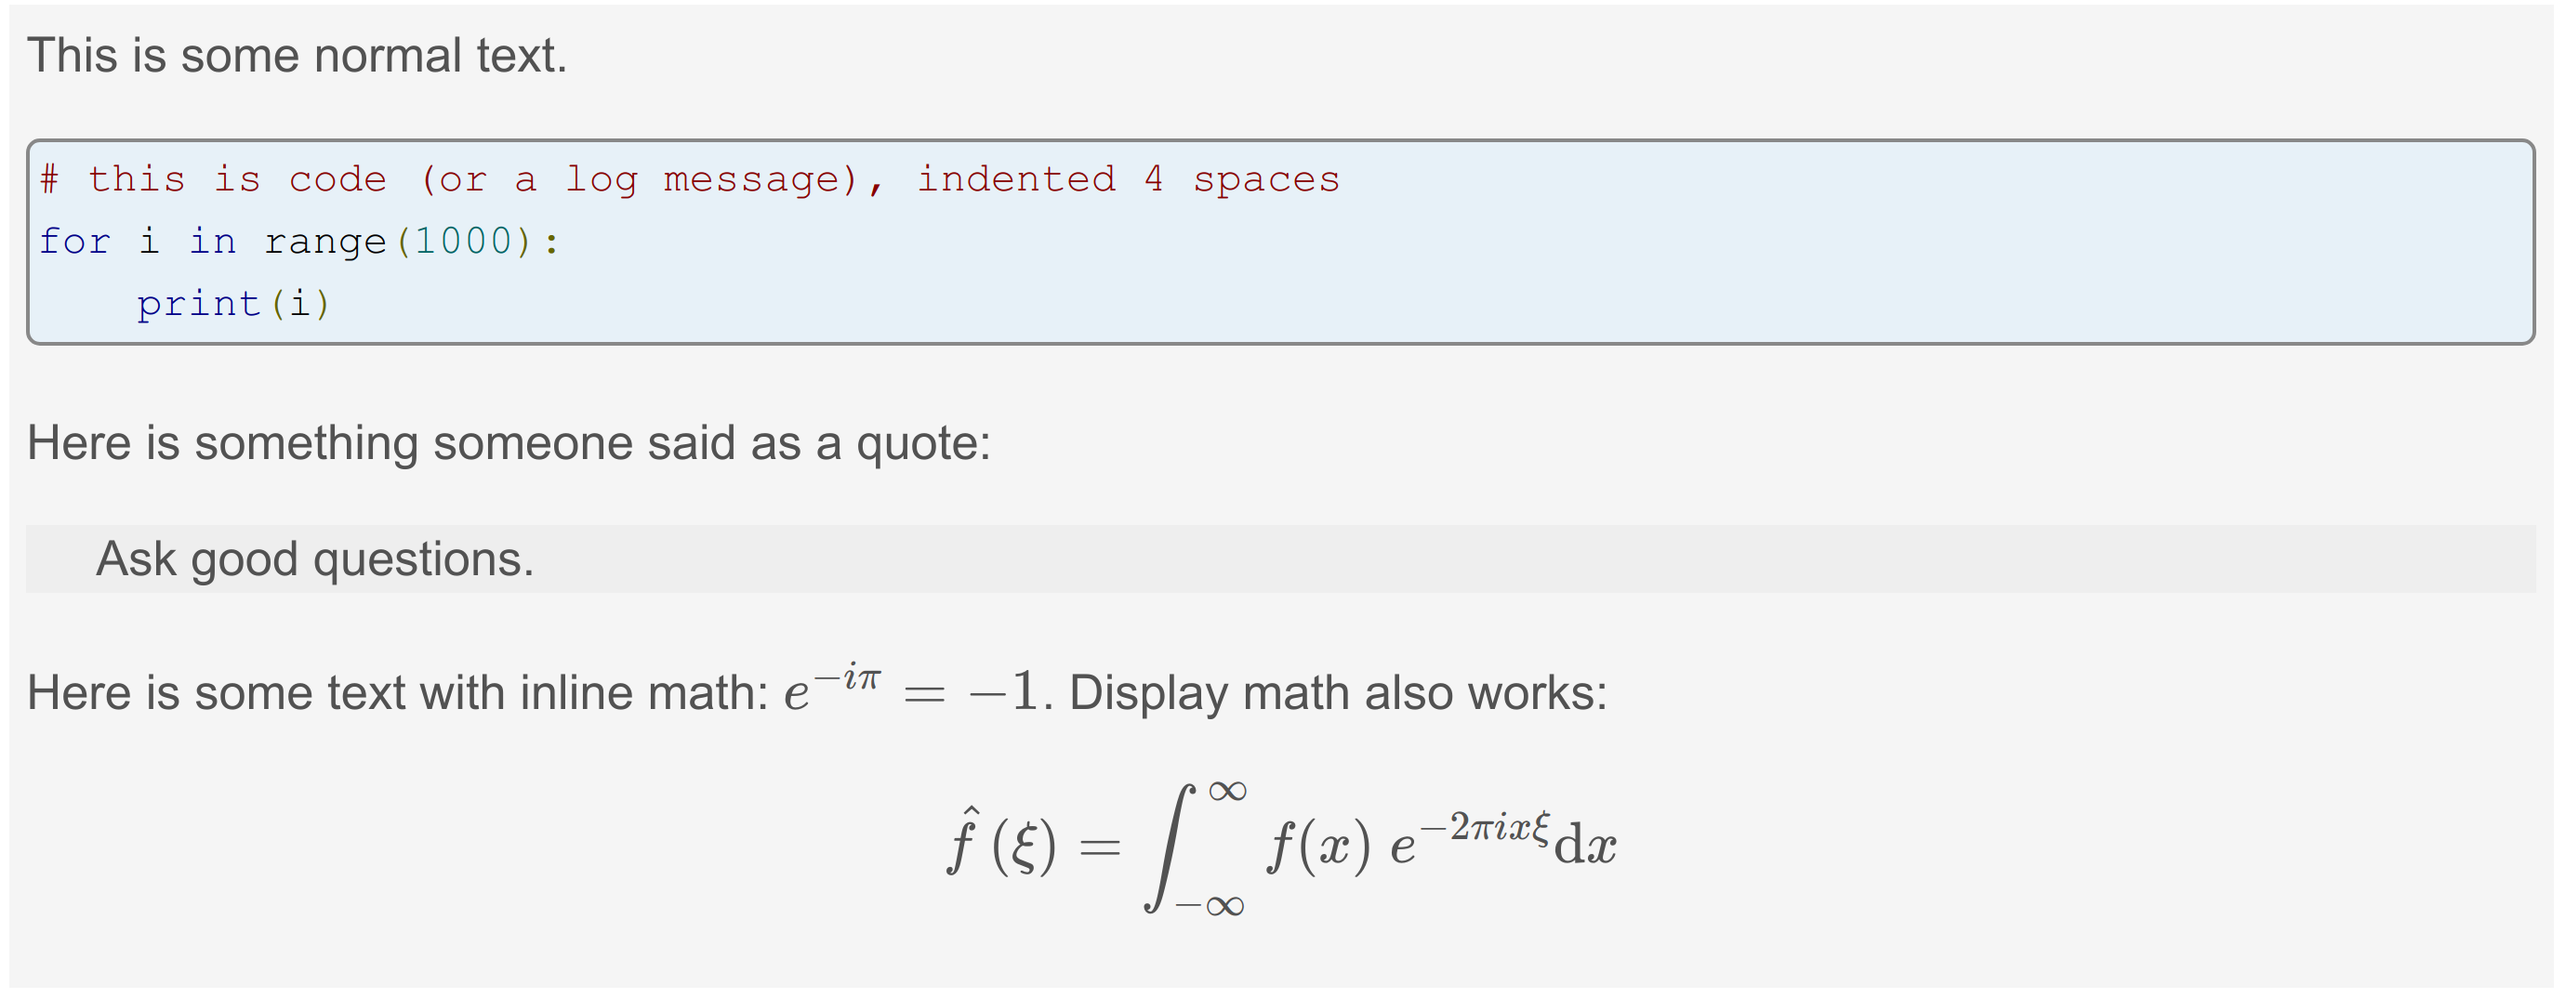
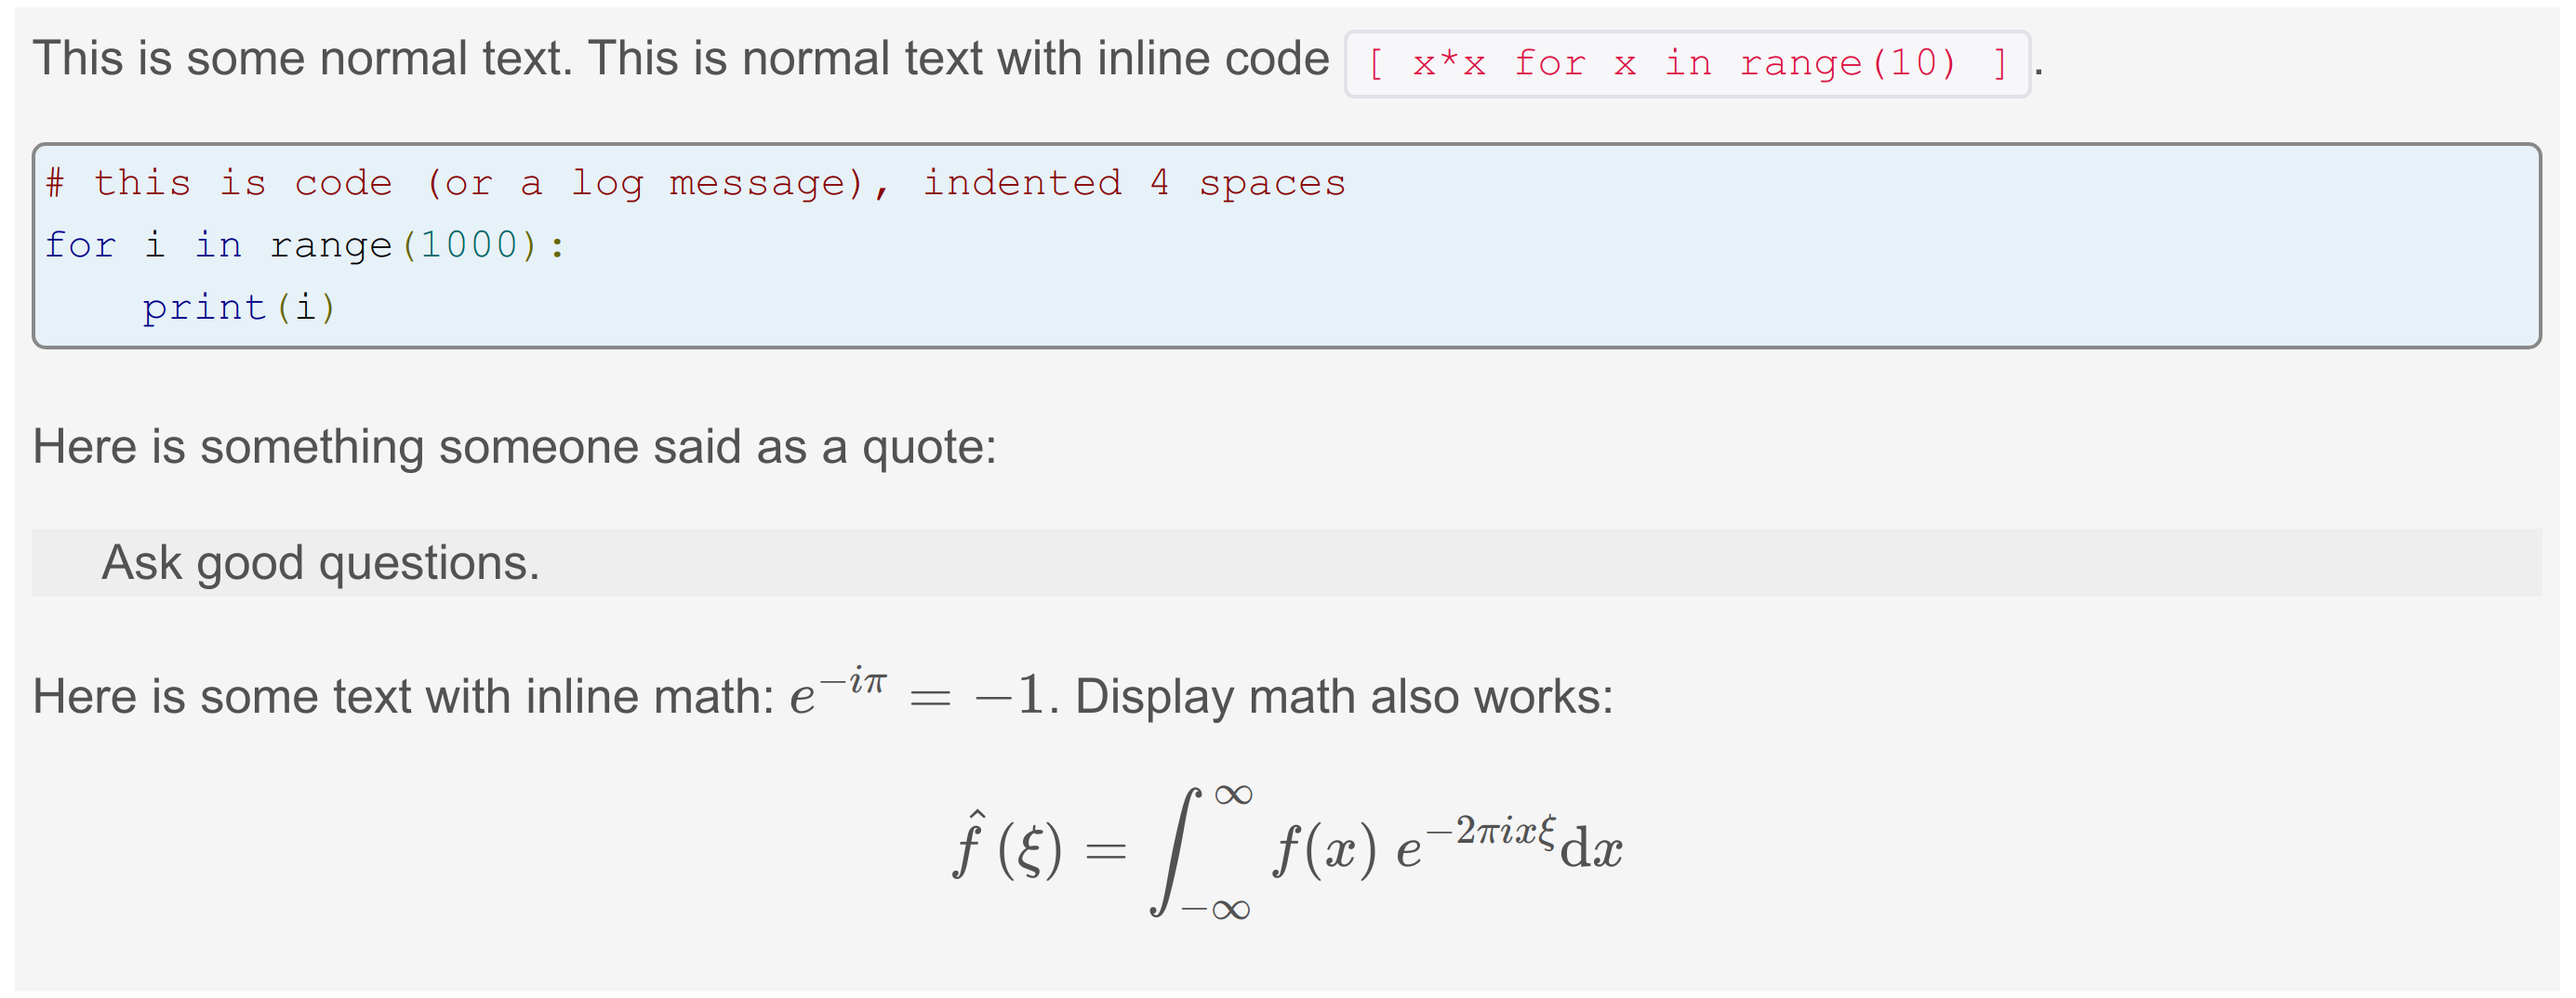
Polishing the lesson.
Typos and comments from Kilian, Giacomo, and Michael in PR #6905.

diff --git a/online_book/welcome/collaborative_tools.rst b/online_book/welcome/collaborative_tools.rst
@@ -1,7 +1,7 @@
 .. _onlinebook_collaborative_tools:
 
-Collaborative Tools
-===================
+Collaborative Tools.
+====================
 
 .. sidebar:: Overview
     :class: overview
@@ -14,7 +14,6 @@ Collaborative Tools
     	
     	* DESY accounts.
         * An internet browser.
-        * The git tutorial.
 
     **Questions**:
 
@@ -60,7 +59,7 @@ right away (for newcomers) and that are needed in these lessons.
 
 * `stash.desy.de <https://stash.desy.de>`_ - Our git server. 
   All code should go here, ideally under the Belle II "project". 
-  **It is a *rule* that your analysis code must be viewable to the rest of the 
+  **It is a rule that your analysis code must be viewable to the rest of the 
   collaboration.**
   To make this less painful, you should get happy with git and the stash tool.
 
@@ -102,9 +101,9 @@ This means that there is non-Belle II-specific help on the internet.
 .. admonition:: Solution
    :class: toggle solution
 
-   It's at `sphinx-doc.org <https://sphinx-doc.org>`_.
+   It's at `www.sphinx-doc.org <https://www.sphinx-doc.org>`_.
    There is also an English-language wikipedia page 
-   `here <https://en.wikipedia.org/wiki/Sphinx_(documentation_generator)>`_
+   `here <https://en.wikipedia.org/wiki/Sphinx_(documentation_generator)>`__.
 
 .. admonition:: Question
      :class: exercise stacked
@@ -114,7 +113,7 @@ This means that there is non-Belle II-specific help on the internet.
 .. admonition:: Solution
    :class: toggle solution
 
-   At support.atlassian.com !
+   At `support.atlassian.com <https://support.atlassian.com>`_!
    (You need to choose the tool and browse to "documentation".)
 
 .. admonition:: Question
@@ -196,25 +195,34 @@ Let's assume you are working with the grid when...
   - If you don't have any luck `ask a question <https://questions.belle2.org>`_
     or send an email to comp-users-forum@belle2.org.
 
+Some tips
+---------
+
 Confluence
 ~~~~~~~~~~
 
 Confluence is useful for easy documentation.
 We use it for glossaries, instructions, and planning.
+You will find: physics meetings discussion, the data-taking,
+data-reconstruction status, and much more on there.
 
-It's not reliable for software documentation, but you will find physics 
-meetings discussion, the data-taking, and data-reconstruction status there.
+It's not reliable for software documentation.
 
 .. admonition:: Exercise
     :class: exercise stacked
 
+    All Belle II data and simulation is centrally processed and reconstructed.
+    This is handled by the "data-production group".
     Find the current data-production status.
+    What data is processed? 
+    What is on-going?
 
 .. admonition:: Solution
     :class: toggle solution
    
     It's on confluence:
-    `Data Production Status <https://confluence.desy.de/display/BI/Data+Production+Status>`_
+    `Data Production Status
+    <https://confluence.desy.de/display/BI/Data+Production+Status>`_
 
 .. admonition:: Exercise
     :class: exercise stacked
@@ -227,6 +235,30 @@ meetings discussion, the data-taking, and data-reconstruction status there.
     It's on confluence:
     `Run Plan <https://confluence.desy.de/display/BI/Run+Plan>`_
 
+.. admonition:: Question
+    :class: exercise stacked
+
+    There are some Belle II-specific acronyms and jargon that you will 
+    encounter in these lessons.
+    What do the following mean?
+
+    * FEI
+    * ROE
+    * BCS
+
+.. admonition:: Hint
+    :class: toggle xhint stacked
+
+    There is a glossary.
+    You should be able to find it.
+
+.. admonition:: Solution
+    :class: toggle solution
+   
+    Take a look at the `Main Glossary 
+    <https://confluence.desy.de/display/BI/Main+Glossary>`_
+    on confluence.
+
 There are some downsides to confluence. 
 Pages may be outdated (check the "last edited" message at the top) and
 sometimes links are broken or pages re-organised.
@@ -236,12 +268,26 @@ original author of the page will probably get back to you.
 If you are quite sure that something is outdated: please update it!
 You can always leave a comment asking experts to check your edit.
 
-We try to avoid documenting software on confluence because software
-changes between versions and pages can be outdated or not depending on the
-version of the software.
+We try to **avoid** documenting software on confluence because software
+changes between versions.
+Pages can be simultaneously outdated and not outdated depending on the version
+of the software you are using.
 
-Some tips
----------
+.. admonition:: Exercise
+    :class: exercise
+
+    There is a sandbox confluence page for you to experiment with adding 
+    material.
+    Go to the `Confluence Training Test Page <https://confluence.desy.de/display/BI/Confluence+Training+Test+Page>`_ and add some content.
+
+    Some inspiration:
+
+    * Link to a JIRA ticket.
+    * Link to another confluence page.
+    * Tag your colleagues.
+    * Add the date.
+    * Add your favourite picture of a cat / piece of art.
+
 
 How to ask a good question
 ~~~~~~~~~~~~~~~~~~~~~~~~~~
@@ -251,14 +297,38 @@ only as good as the posts.
 Even though you have a problem and you want help quickly it is worthwile to
 take time on presentation.
 
-* Try to boil down the issue to the minimal (non)-working example, what you 
-  expect to happen, as well as instructions on how to run it.
-* Try to include all details that are needed to reproduce the issue but 
-  avoid walls of text.
-* Include full error messages and logs.
-* Make use of formatting (for code, logs, . . . ).
-* If you use data, include a path or a small example data file.
-* Choose an appropriate title, and use tags.
+0. Search for existing questions.
+1. Try to boil down the issue to the minimal (non)-working example, what you 
+   expect to happen, as well as instructions on how to run it.
+2. Try to include all details that are needed to reproduce the issue but 
+   avoid walls of text.
+3. Include full error messages and logs.
+4. Make use of formatting (for code, logs, . . . ).
+5. If you use data, include a path or a small example data file.
+6. Choose an appropriate title, and use tags.
+
+.. admonition:: Question
+    :class: exercise stacked
+
+    What is an MWE?
+
+.. admonition:: Hint
+    :class: toggle xhint stacked
+
+    This is jargon but it is not specific to Belle II.
+
+.. admonition:: Solution
+    :class: toggle solution
+
+    It stands for minimal working example.
+
+    .. seealso:: 
+
+         `This excellent stack overflow post
+         <https://stackoverflow.com/help/minimal-reproducible-example>`_ 
+         and `this English language wikipedia page
+         <https://en.wikipedia.org/wiki/Minimal_working_example>`_.
+
 
 .. seealso::
 
@@ -276,6 +346,7 @@ Code is indented by four spaces, and you can use latex!
 .. code:: markdown
 
         This is some normal text.
+        This is normal text with inline code `[ x*x for x in range(10) ]`.
 
             # this is code (or a log message), indented 4 spaces
             for i in range(1000):
@@ -292,6 +363,9 @@ Code is indented by four spaces, and you can use latex!
 This gets rendered something like:
 
 .. figure:: collaborative_tools/formatting.png
+   :width: 750px
+   :align: center
+   :alt: An example questions post.
 
 
 Housekeeping
@@ -304,10 +378,11 @@ You should also vote on other good questions.
 This helps everyone find relevant good information.
 
 .. figure:: collaborative_tools/close_and_upvote.png
-   :width: 15em
+   :width: 150px
    :align: center
+   :alt: Click on the circle to choose an answer.
 
-   Click on the circle to choose an answer.
+   Click on the circle with a check-mark to choose an answer.
    Click on the arrow to up-vote.
 
 Don't forget to answer!
@@ -315,6 +390,11 @@ Don't forget to answer!
 
 The forum is a Q& **A** forum. 
 If you know an answer to a question: answer it!
+
+.. tip::
+
+    If you *don't* know the answer, but know someone who you think might: 
+    please tag them in a comment.
 
 A bit more about working with stash and JIRA
 ~~~~~~~~~~~~~~~~~~~~~~~~~~~~~~~~~~~~~~~~~~~~
@@ -335,7 +415,7 @@ A bit more about working with stash and JIRA
    We trust that you did it.
    The main software repository is:
    https://stash.desy.de/projects/B2/repos/software , and the list of commits 
-   is `here <https://stash.desy.de/projects/B2/repos/software/commits>`_.
+   is `here <https://stash.desy.de/projects/B2/repos/software/commits>`__.
 
 .. admonition:: Exercise
      :class: exercise stacked
@@ -355,20 +435,41 @@ A bit more about working with stash and JIRA
 Here is a rough workflow for working with stash and JIRA.
 
 1. Identify an issue: Feature requests, bug report, ...
+
    - If you don’t know if it's a real bug, you can always ask on questions.
+
 2. Open an issue on JIRA and assign someone to work on it
+
    - Click "create" and fill out the form.
-   - It can be reassigned, so just guess someone (e.g. the librarian of the package)
-3. Discuss there: Is this really a bug? Do we really need this feature?
-4. You (or someone else will) create a branch that references the issue
-   and add some commits to the branch
-5. You (or someone else will) open a pull request, add reviewers add a clear description
+
+   - It can be reassigned, so either guess someone or leave it as "Automatic".
+     If you leave assignee as Automatic but choose a "component" then the 
+     person in charge of the package is automatically assigned.
+
+3. Discuss there in comments: Is this really a bug? Do we really need this
+   feature?
+
+4. You (or someone else will) create a branch that references the issue,
+   write some code, and add some commits to the branch.
+
+5. You (or someone else will) open a pull request, add reviewers, and add a 
+   clear description.
+
+   - You (or someone else) can edit the text, title, and reviewers after a
+     first attempt.
+
 6. Reviewers look at the changes, leave comments on code and in general.
-7. The develor will react to reviewers
+
+7. The developer will react to reviewers
+
    - more commits to this branch
+
 8. After all reviewers agree: Merge!
 
-.. seealso:: `How do I send a JIRA ticket? <https://questions.belle2.org/question/1317/how-do-i-send-a-jira-ticket/>`_
+.. seealso:: 
+
+    `How do I send a JIRA ticket?
+    <https://questions.belle2.org/question/1317/how-do-i-send-a-jira-ticket/>`_
 
 .. tip:: 
 
@@ -397,7 +498,7 @@ The page you are now reading is written in sphinx.
 .. admonition:: Solution
    :class: toggle solution
 
-   It's here [FIXME]
+   It's `here <../../_sources/online_book/welcome/collaborative_tools.rst.txt>`__.
 
 If you discover an omission or a problem (or even a typo) you can actually 
 fix it quite easily yourself.
@@ -416,8 +517,8 @@ You can make a difference!
 
 People are nice: don't be too afraid to bother them or break stuff (chances are
 you won't, anyway).
-Ask for help on questions.belle2.org or leave a comment on a confluence page or
-on a JIRA ticket.
+Ask for help on `questions.belle2.org <https://questions.belle2.org>`_ or leave
+a comment on a confluence page or on a JIRA ticket.
 
 Help us out with documentation: as a beginner, you know best what is missing!
 
@@ -426,13 +527,15 @@ Help us out with documentation: as a beginner, you know best what is missing!
 
     * Software documentation → `software.belle2.org <https://software.belle2.org>`_.
     * Ask questions (and answer them) at `questions.belle2.org <https://questions.belle2.org>`_.
-      Good questions are also documentation and are also helpful!
     * `Confluence <https://confluence.desy.de>`_ is our wiki.
-    * Code → `stash.desy.de <https://stash.desy.de>`_ is where all code should go.
+    * Code → `stash.desy.de <https://stash.desy.de>`_.
     * Bugs, feature requests → `agira.desy.de <https://agira.desy.de>`_.
-      Bugs do exist, don't hesitate too much to report them
+
+.. tip:: Good questions are also documentation and are also helpful!
+
+.. tip:: Bugs do exist, don't hesitate too much to report them.
 
 .. topic:: Author(s) of this lesson
 
-     Kilian Lieret (kilian.lieret@campus.lmu.de),
-     Sam Cunliffe (sam.cunliffe@desy.de)
+     Kilian Lieret,
+     Sam Cunliffe
